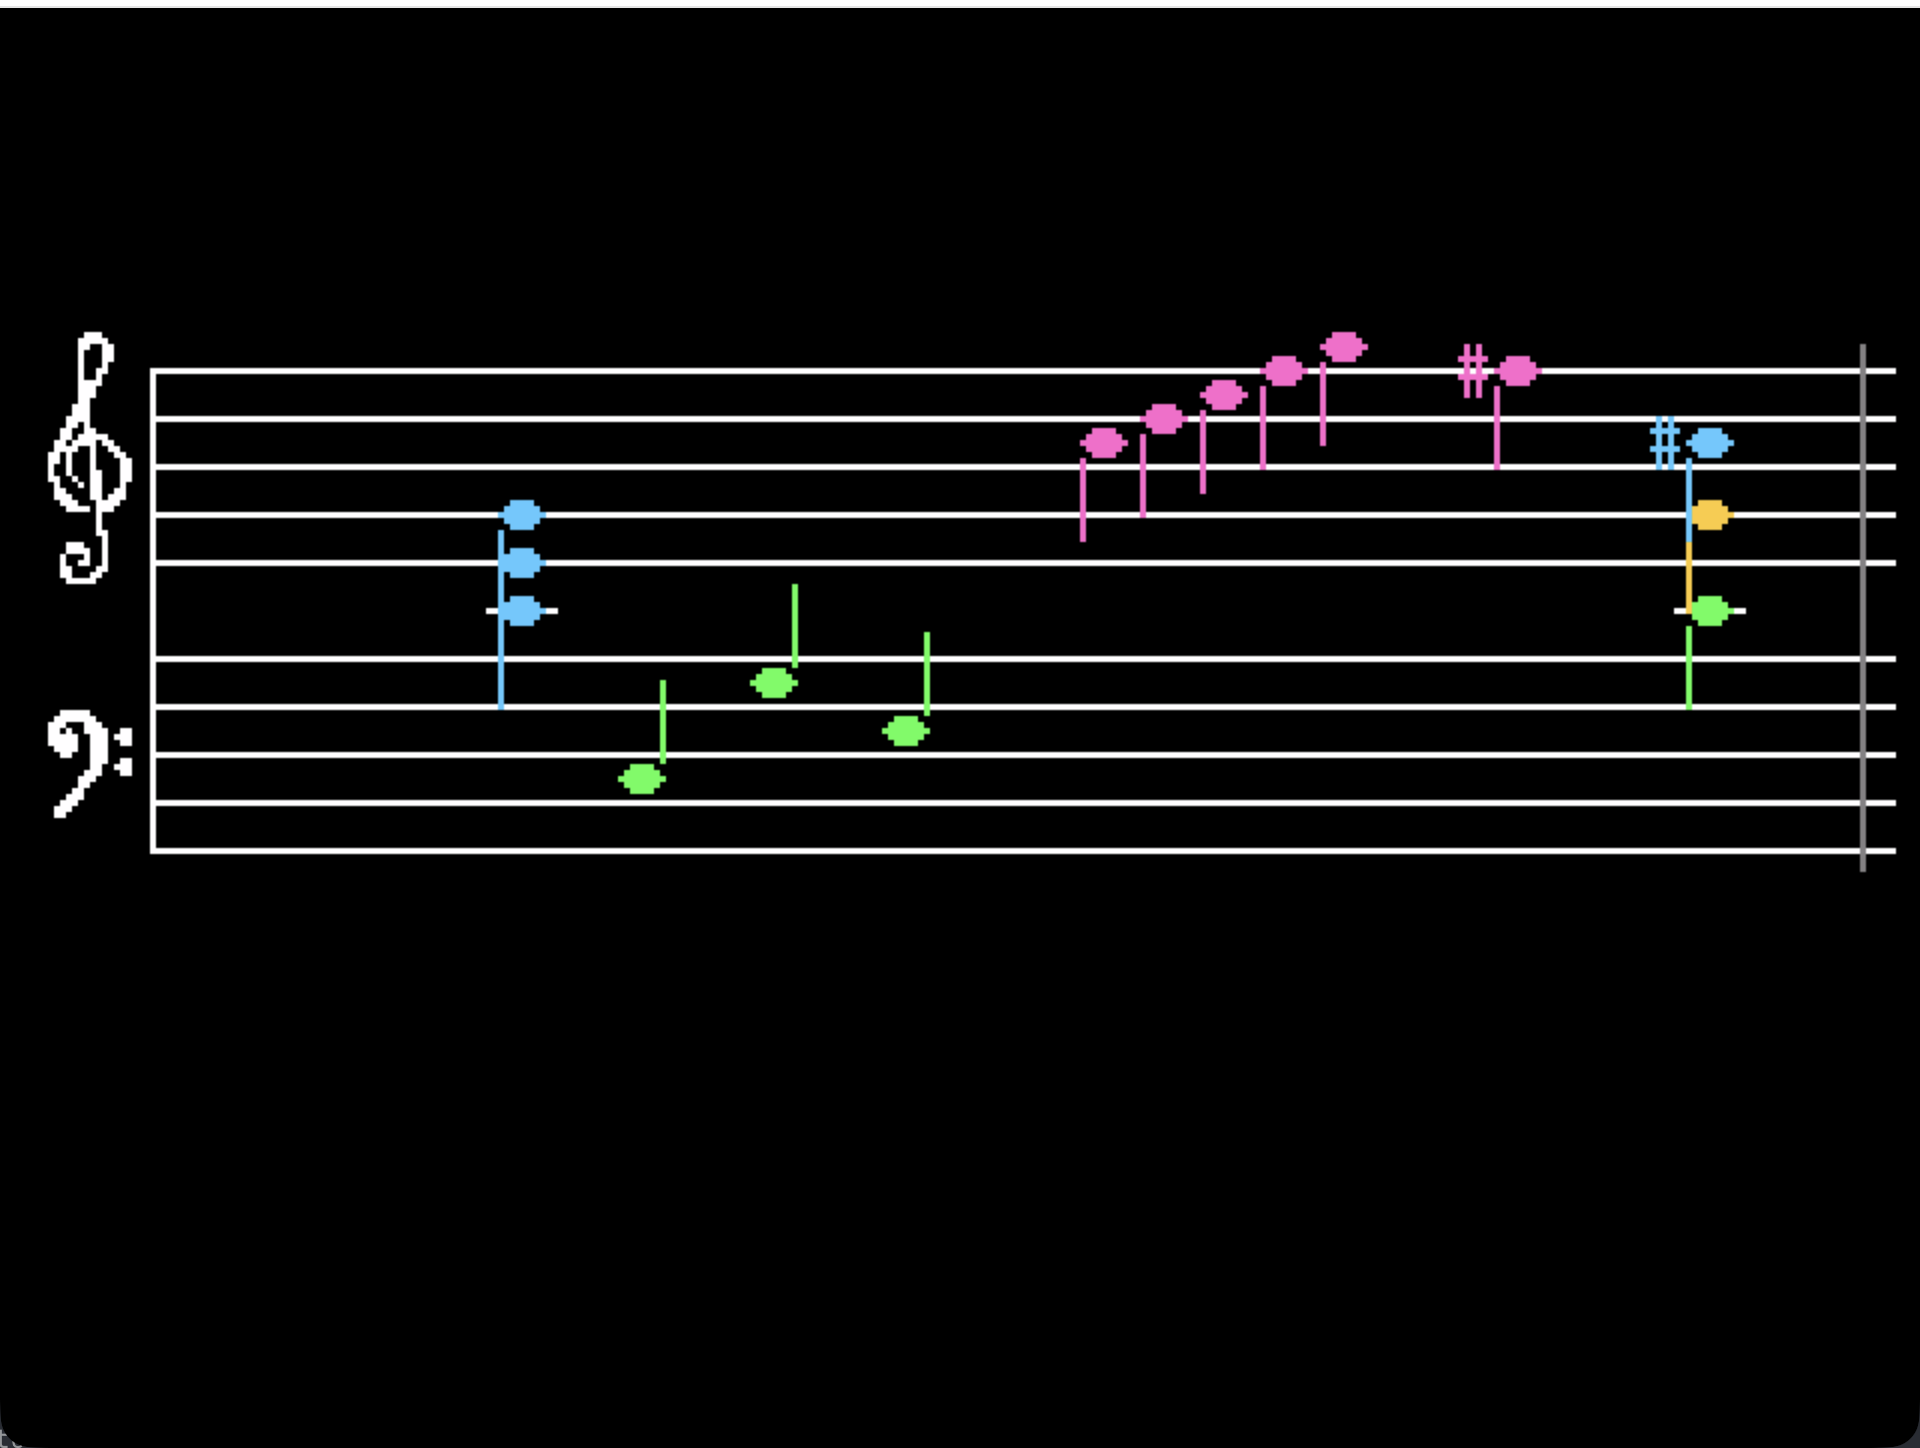
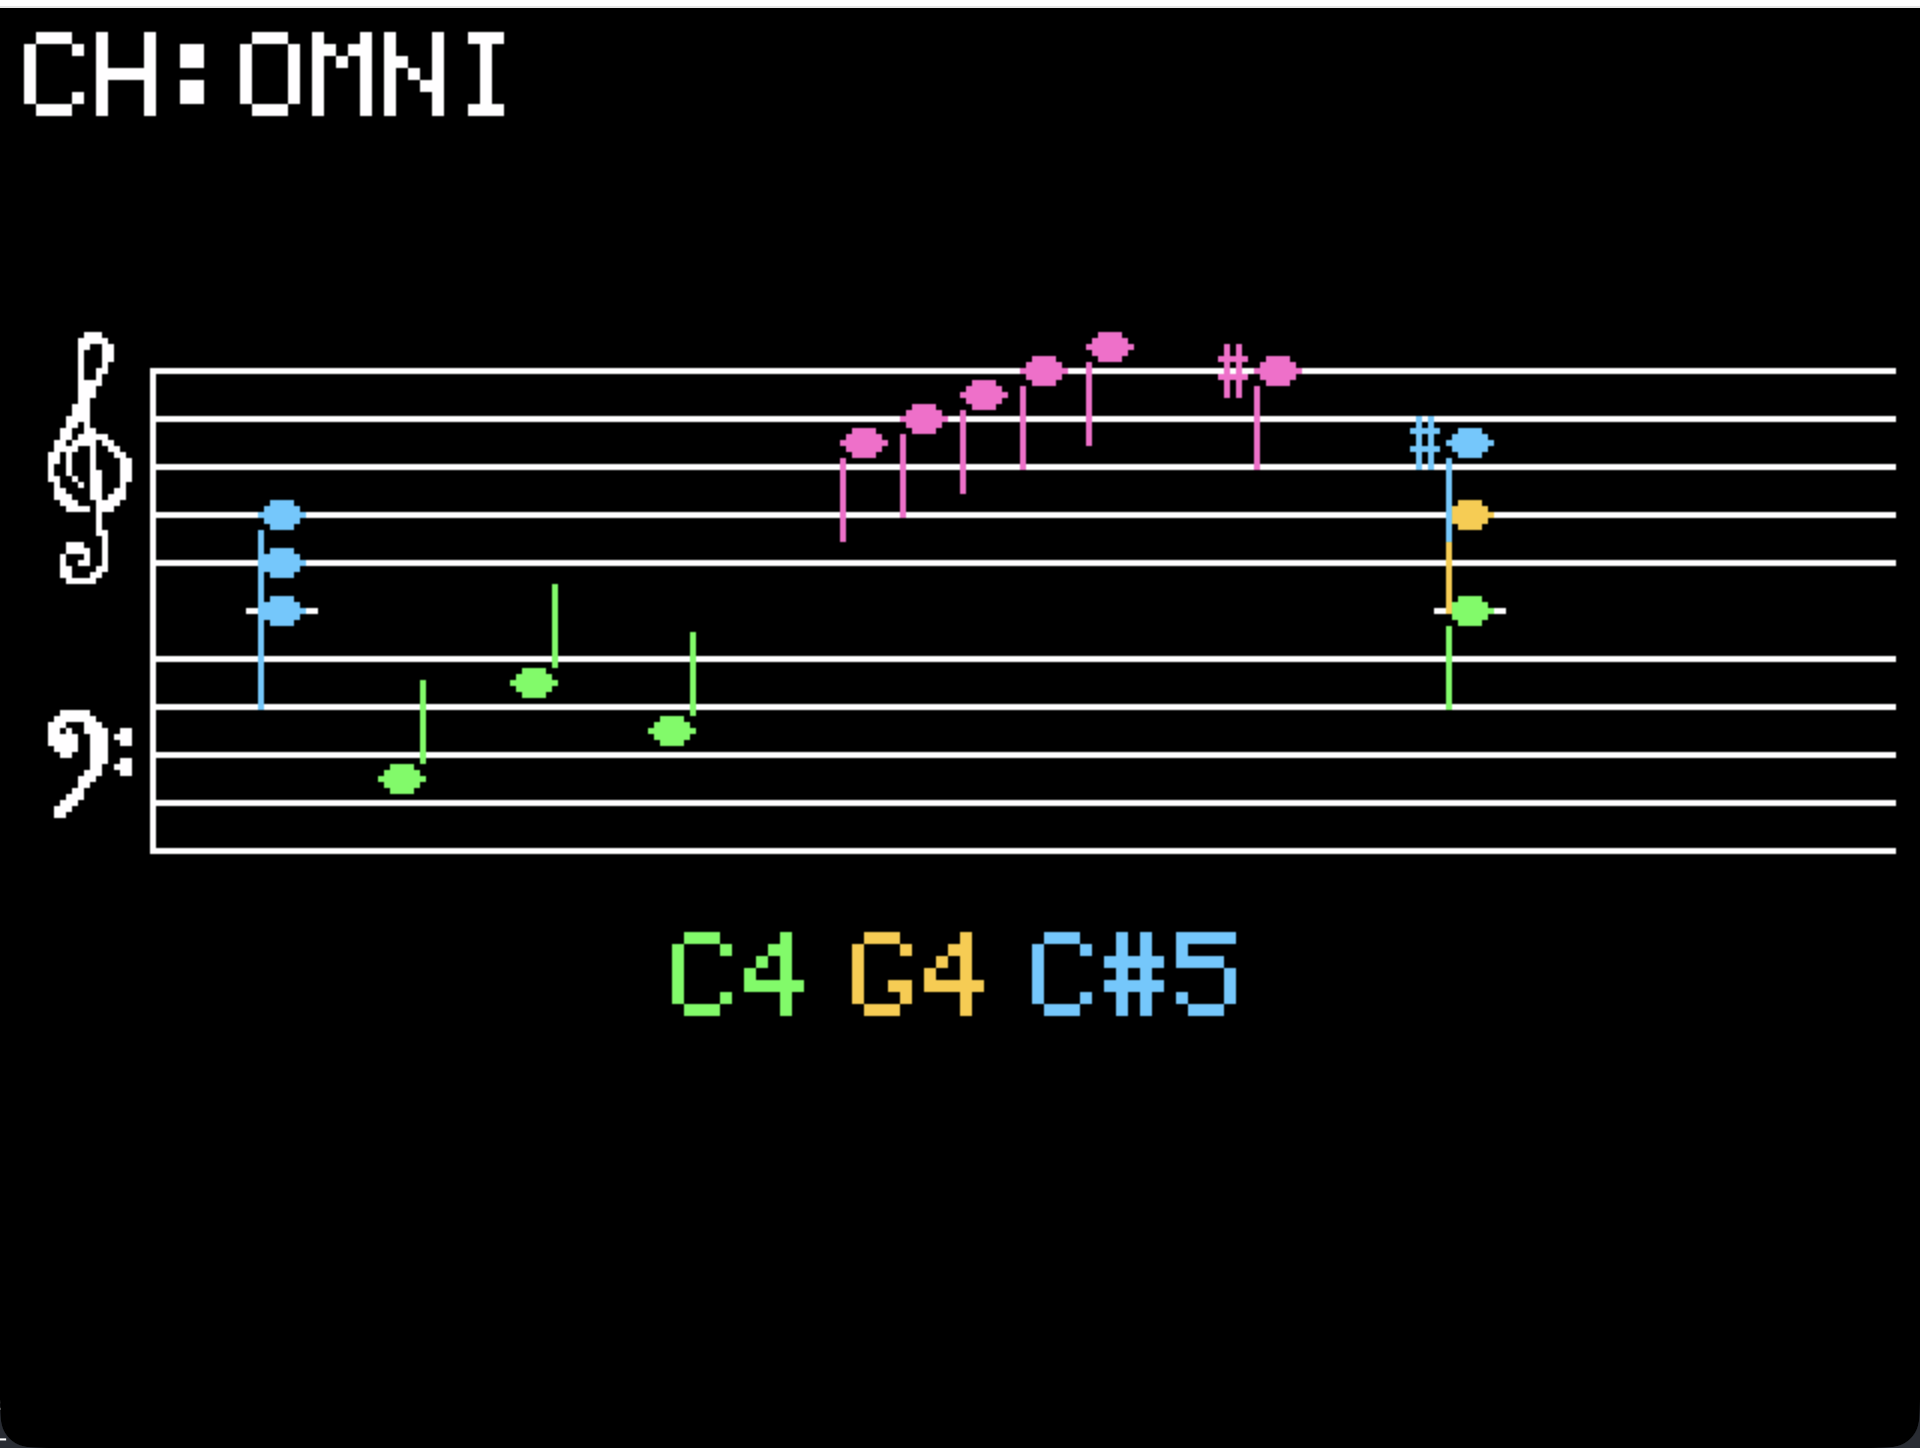
Notation: drop now-rule, add channel + chord + note-name labels
The right-hand vertical grey rule (the "now line") added more
distraction than it gave information, so it's gone.

In its place, three text overlays that mirror what the monitor-view
header already shows:

  - top-left: the listened channel ("CH:OMNI" or "CH:N")
  - top-right: per-channel chord names, right-aligned, each rendered
    in its channel's palette colour — same detection path as the
    monitor view (detectChordOnChannel), just laid out independently
    so chord names sit just above the treble staff instead of inside
    the header bar
  - below the bass staff: a centred list of every currently-held
    note name ("C4 E4 G#5 …"), each in the colour of the lowest
    channel that is holding it

The note-name strip turns the notation view into a quick legend for
people who can't read the staff yet, and the chord names give the
same harmonic at-a-glance read as the monitor view without having
to flip back.

Also re-captured docs/screenshots/notation.png to show the new
layout.

diff --git a/core/MidiMonitorApp.cpp b/core/MidiMonitorApp.cpp
@@ -766,10 +766,6 @@ void MidiMonitorApp::drawNotation(Display& d) const {
     constexpr int kRightX = kStaffX + kStaffW - kNoteHeadW - 4;
     constexpr int kLeftX  = kStaffX + 4;
 
-    // "Now" line at the right edge — a thin grey rule the heads emerge from.
-    d.fillRect(kRightX + kNoteHeadW / 2 + 2, kF5Y - 4,
-               1, kG2Y - kF5Y + 8, color::Gray);
-
     const uint32_t now = lastTickMs_;
 
     for (int i = 0; i < kMaxWorms; ++i) {
@@ -837,6 +833,96 @@ void MidiMonitorApp::drawNotation(Display& d) const {
                   notation::kNoteHead,
                   notation::kNoteHeadW, notation::kNoteHeadH,
                   col);
+    }
+
+    // ---- Channel filter label (top-left) ------------------------------
+    char chBuf[16];
+    if (channel_ == 0) std::snprintf(chBuf, sizeof(chBuf), "CH:OMNI");
+    else               std::snprintf(chBuf, sizeof(chBuf), "CH:%u", channel_);
+    d.drawText(4, 4, chBuf, color::White, color::Black, 2);
+
+    // ---- Per-channel chord names (top, right-aligned) -----------------
+    // Same shape as drawChordNames() for the monitor view, but freshly
+    // laid out so the y-position and right-edge are independent of the
+    // header bar.
+    {
+        constexpr int kCharW = 12;       // size-2 font glyph stride
+        constexpr int kSep   = 12;
+        constexpr int kRightEdge   = kScreenW - 4;
+        constexpr int kLeftReserved = 100;  // keep clear of the "CH:" label
+
+        struct Entry { char name[12]; uint8_t channel; };
+        Entry entries[16];
+        int count = 0;
+        for (uint8_t ch = 1; ch <= 16 && count < 16; ++ch) {
+            char name[12];
+            detectChordOnChannel(ch, name, sizeof(name));
+            if (name[0] == '\0') continue;
+            std::strncpy(entries[count].name, name,
+                         sizeof(entries[count].name));
+            entries[count].name[sizeof(entries[count].name) - 1] = '\0';
+            entries[count].channel = ch;
+            ++count;
+        }
+        if (count > 0) {
+            int totalW = 0;
+            for (int i = 0; i < count; ++i)
+                totalW += static_cast<int>(std::strlen(entries[i].name)) * kCharW;
+            totalW += (count - 1) * kSep;
+
+            int firstShown = 0;
+            while (firstShown < count - 1 &&
+                   kRightEdge - totalW < kLeftReserved) {
+                const int w =
+                    static_cast<int>(std::strlen(entries[firstShown].name))
+                    * kCharW + kSep;
+                totalW -= w;
+                ++firstShown;
+            }
+            int x = kRightEdge - totalW;
+            for (int i = firstShown; i < count; ++i) {
+                d.drawText(x, 4, entries[i].name,
+                           channelColor(entries[i].channel),
+                           color::Black, 2);
+                x += static_cast<int>(std::strlen(entries[i].name)) * kCharW;
+                if (i < count - 1) x += kSep;
+            }
+        }
+    }
+
+    // ---- Held-note names (below the staff, channel-coloured) ---------
+    {
+        constexpr int kCharW    = 12;   // size-2 stride
+        constexpr int kSep      = 6;
+        constexpr int kNamesY   = kG2Y + 14;
+        constexpr int kMaxNames = 16;
+
+        uint8_t notes[kMaxNames];
+        int     count = 0;
+        for (int n = 0; n < 128 && count < kMaxNames; ++n) {
+            if (notePressedBy_[n] != 0) {
+                notes[count++] = static_cast<uint8_t>(n);
+            }
+        }
+        if (count > 0) {
+            // Total pixel width — each name is variable length ("C4", "C#4").
+            int totalW = 0;
+            for (int i = 0; i < count; ++i) {
+                const std::string n = MidiMessage::noteName(notes[i]);
+                totalW += static_cast<int>(n.size()) * kCharW;
+            }
+            totalW += (count - 1) * kSep;
+
+            int x = (kScreenW - totalW) / 2;
+            if (x < 4) x = 4;
+            for (int i = 0; i < count; ++i) {
+                const std::string n = MidiMessage::noteName(notes[i]);
+                const uint16_t col = channelColor(pressedChannelFor(notes[i]));
+                d.drawText(x, kNamesY, n.c_str(), col, color::Black, 2);
+                x += static_cast<int>(n.size()) * kCharW;
+                if (i < count - 1) x += kSep;
+            }
+        }
     }
 }
 
